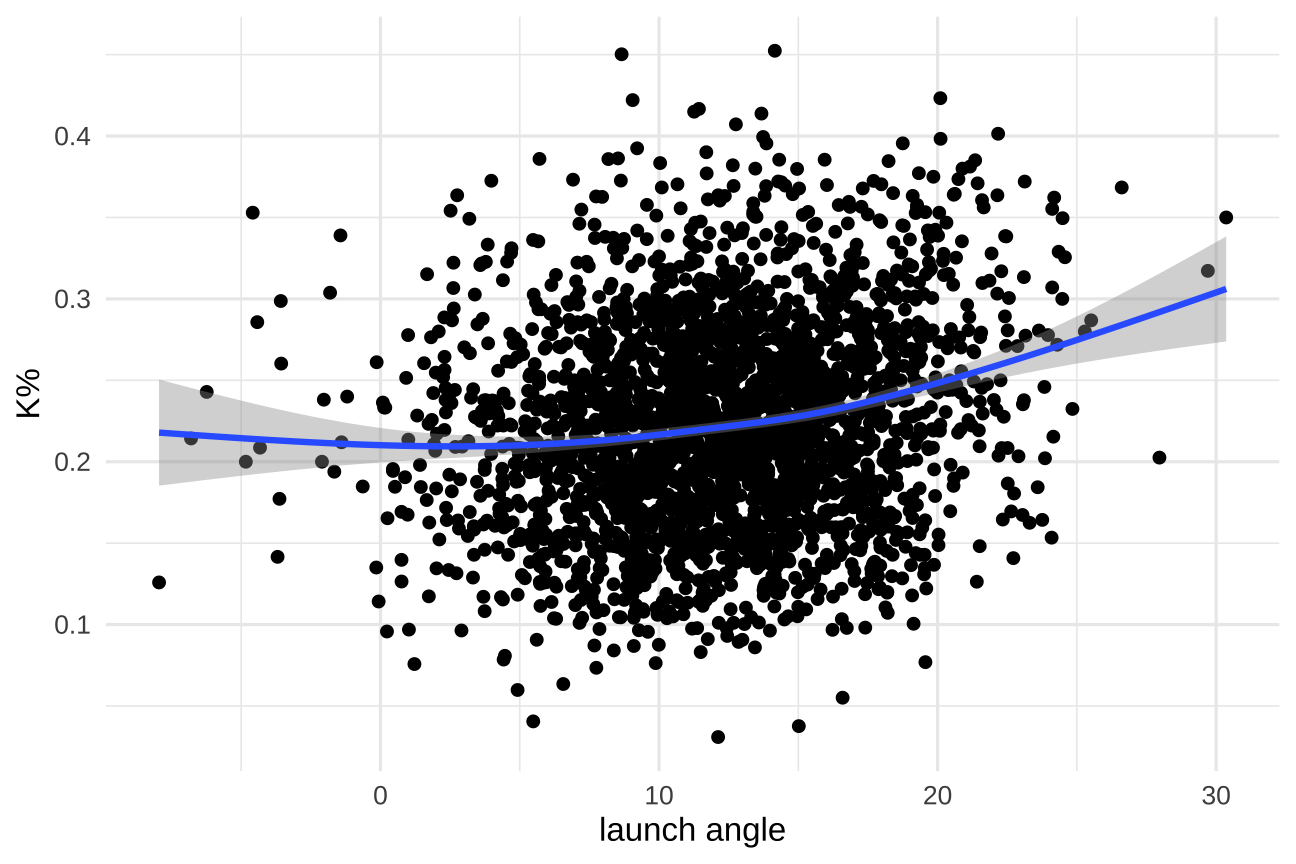
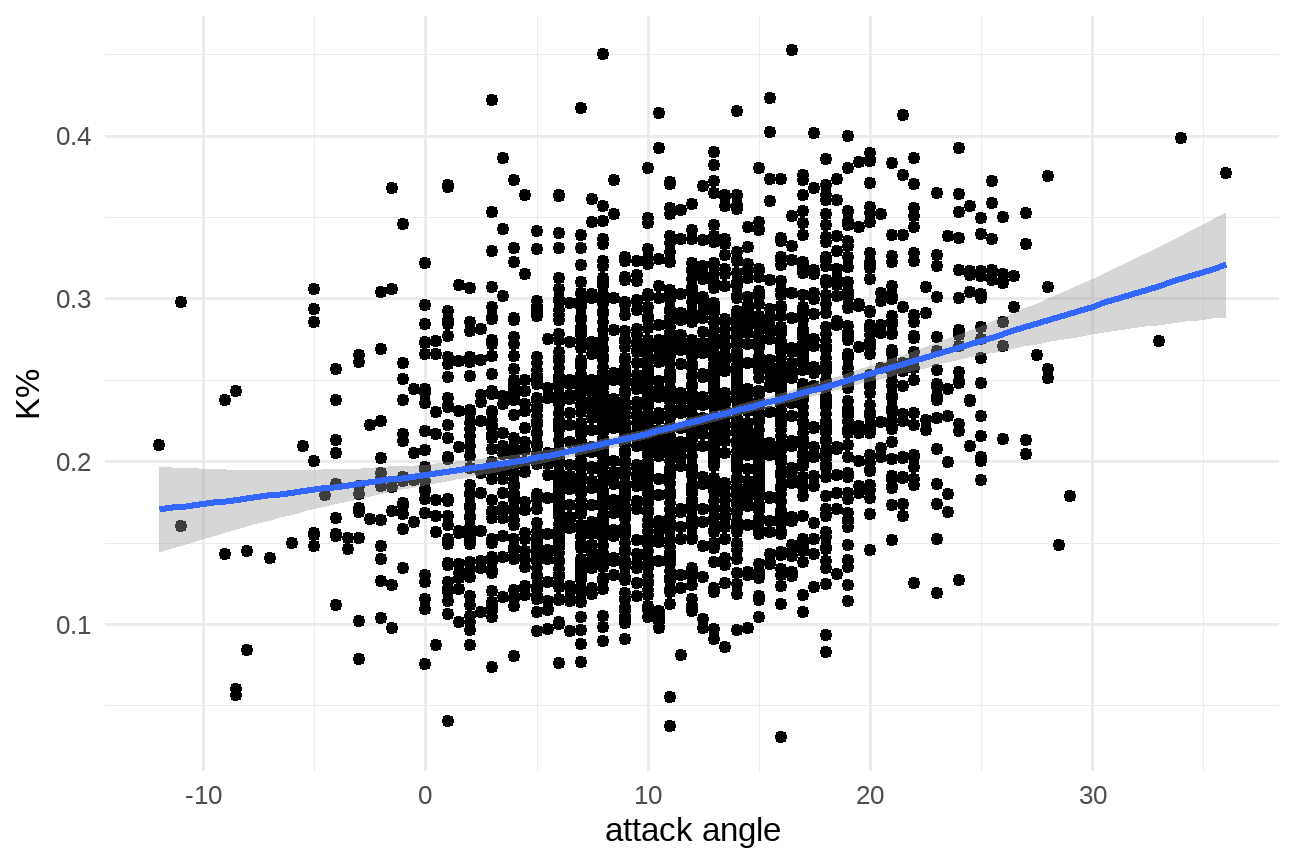
switching axes and making picture sizes smaller

diff --git a/Final Short Presentation/Shortened_Presentation.html b/Final Short Presentation/Shortened_Presentation.html
@@ -4,7 +4,7 @@
     <title>Maximzing WOBA with Launch Angle and Exit Velocity</title>
     <meta charset="utf-8" />
     <meta name="author" content="Sarah Sult, Brooke Coneeny, Erin Franke" />
-    <meta name="date" content="2021-07-28" />
+    <meta name="date" content="2021-07-27" />
     <link rel="stylesheet" href="xaringan-themer.css" type="text/css" />
   </head>
   <body>
@@ -13,7 +13,7 @@ class: center, middle, inverse, title-slide
 
 # Maximzing WOBA with Launch Angle and Exit Velocity
 ### Sarah Sult, Brooke Coneeny, Erin Franke
-### 2021-07-28
+### 2021-07-27
 
 ---
 
@@ -153,7 +153,7 @@ class: center, middle, inverse, title-slide
 &lt;img src="Shortened_Presentation_files/figure-html/unnamed-chunk-9-1.png" width="432" /&gt;
 ]
 ---
-## By using an interaction between launch angle and exit velocity in our GAM, we capture the true distribution of wOBA
+## By using an interaction between launch angle and exit velocity in our GAM, we were able to capture the true distribution of wOBA, such as the band of singles and clump of home runs
 .pull-left[
 **Actual relationship**
 &lt;img src="Shortened_Presentation_files/figure-html/unnamed-chunk-10-1.png" width="432" /&gt;
@@ -165,17 +165,17 @@ class: center, middle, inverse, title-slide
 ---
 # Using a player's attack angle to predict launch angles
 
-.pull-left[
 - A player's **attack angle** is the angle that the barrel of the bat travels through impact with the baseball 
 
 - The attack angle is calculated by taking the **median of the player's top 10% highest launch speeds**
 
 - We then used this attack angle with pitch height to create a linear model which predicts a player's launch angles
+
+.pull-left[
+&lt;img src="https://v6e8y6s7.stackpathcdn.com/2014site/wp-content/uploads/2018/11/Swing-Planes-Positive-768x309.jpg" style="display: block; margin: auto;" /&gt;
 ]
 
 .pull-right[
-&lt;img src="https://v6e8y6s7.stackpathcdn.com/2014site/wp-content/uploads/2018/11/Swing-Planes-Positive-768x309.jpg" style="display: block; margin: auto;" /&gt;
-
 &lt;img src="https://v6e8y6s7.stackpathcdn.com/2014site/wp-content/uploads/2018/11/Swing-Planes-Negative.png" style="display: block; margin: auto;" /&gt;
 ]
 
@@ -184,17 +184,17 @@ class: center, middle, inverse, title-slide
 
 - When adjusting a player's attack angle, our linear model gives us a set of new predicted launch angles for each ball hit into play
 
-- Exit velocities were sampled to create a mock data set representing this player's balls hit into play due to their new attack angle
+- Exit velocties were sampled to create a mock data set representing this player's balls hit into play due to their new attack angle
 
-- This data was run though the wOBA model (GAM) to generate predictions of the player's potential production
+-This data was run though the wOBA model (GAM) to generate predictions of the player's potential production
 
 .pull-left[
-&lt;img src="Shortened_Presentation_files/figure-html/unnamed-chunk-14-1.png" width="360" /&gt;
+&lt;img src="Shortened_Presentation_files/figure-html/unnamed-chunk-14-1.png" width="432" /&gt;
 
 ]
 
 .pull-right[
-&lt;img src="Shortened_Presentation_files/figure-html/unnamed-chunk-15-1.png" width="360" /&gt;
+&lt;img src="Shortened_Presentation_files/figure-html/unnamed-chunk-15-1.png" width="432" /&gt;
 ]
 
 ---
@@ -205,7 +205,7 @@ class: center, middle, inverse, title-slide
 - While we have not yet quantified it, the following graphs show trends that players with higher attack angles on average tend to have higher strikeout rates
 
 .pull-left[
-&lt;img src="Shortened_Presentation_files/figure-html/unnamed-chunk-16-1.png" width="432" /&gt;
+&lt;img src="Shortened_Presentation_files/figure-html/unnamed-chunk-16-1.png" width="432" /&gt;&lt;img src="Shortened_Presentation_files/figure-html/unnamed-chunk-16-2.png" width="432" /&gt;
 ]
 .pull-right[
 &lt;img src="Shortened_Presentation_files/figure-html/unnamed-chunk-17-1.png" width="432" /&gt;

diff --git a/Final Presentations/xaringan-themer.css b/Final Presentations/xaringan-themer.css
@@ -15,7 +15,7 @@
  *    - xaringan wiki: https://github.com/yihui/xaringan/wiki
  *    - remarkjs wiki: https://github.com/gnab/remark/wiki
  *
- *  Version: 0.3.4
+ *  Version: 0.4.0
  *
  * ------------------------------------------------------- */
 @import url(https://fonts.googleapis.com/css?family=Noto+Sans:400,400i,700,700i&display=swap);
@@ -105,9 +105,12 @@ h1, h2, h3 {
 .remark-slide-number {
   color: #cc002b;
   opacity: 1;
-  font-size: 0.9em;
+  font-size: 0.9rem;
 }
-strong { color: var(--text-bold-color); }
+strong {
+  font-weight: bold;
+  color: var(--text-bold-color);
+}
 a, a > code {
   color: var(--link-color);
   text-decoration: none;
